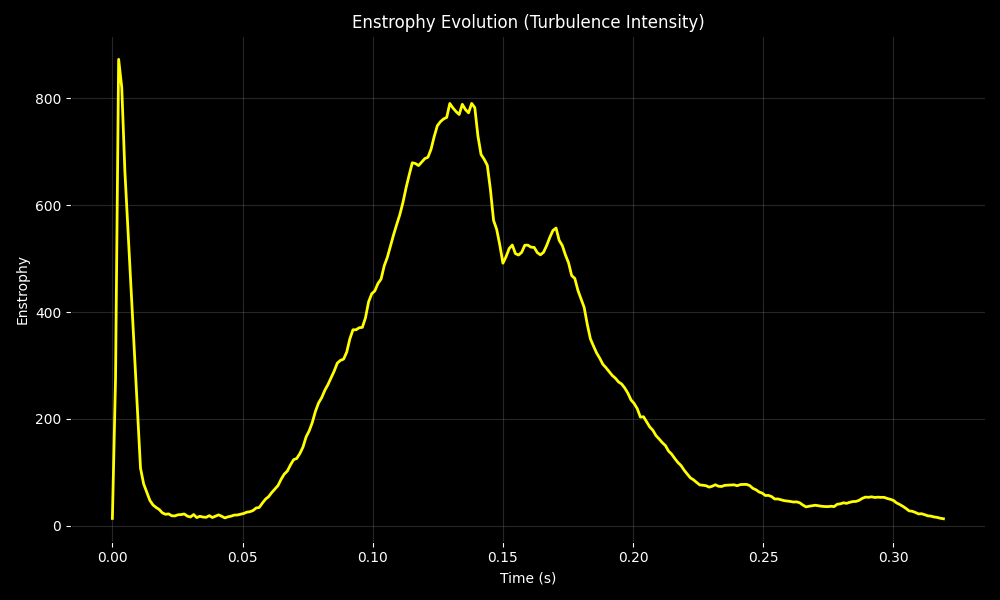
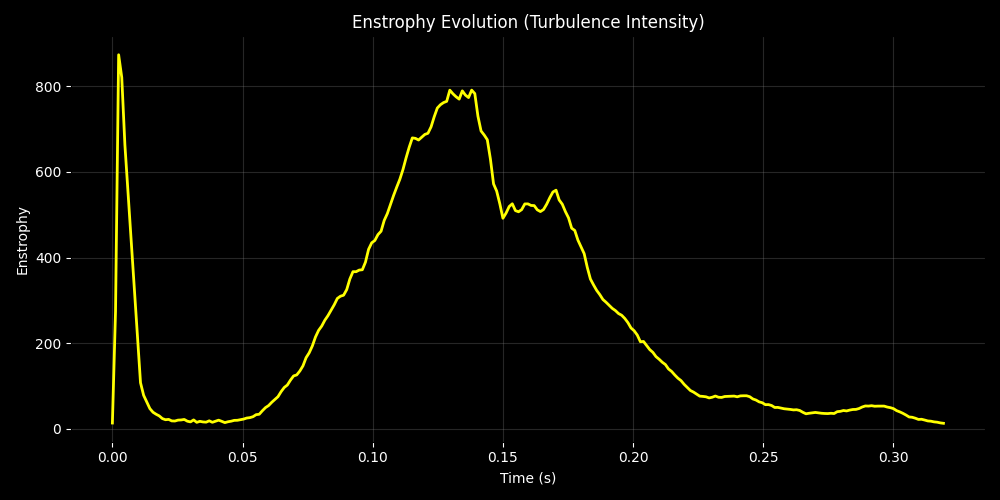
Fix: Standardized all vorticity plots to 10x5 dimensions

diff --git a/src/analyze_vorticity.py b/src/analyze_vorticity.py
@@ -71,7 +71,7 @@ def main():
         
         # Save Vorticity Map for every frame
         print(f"Generating Vorticity Map for step {step} ({i+1}/{len(files)})...")
-        plt.figure(figsize=(10, 6), facecolor='black')
+        plt.figure(figsize=(10, 5), facecolor='black')
         ax = plt.gca()
         ax.set_facecolor('black')
         
@@ -98,7 +98,7 @@ def main():
     times = np.array(times)
     enstrophies = np.array(enstrophies)
     
-    plt.figure(figsize=(10, 6), facecolor='black')
+    plt.figure(figsize=(10, 5), facecolor='black')
     ax = plt.gca()
     ax.set_facecolor('black')
     
